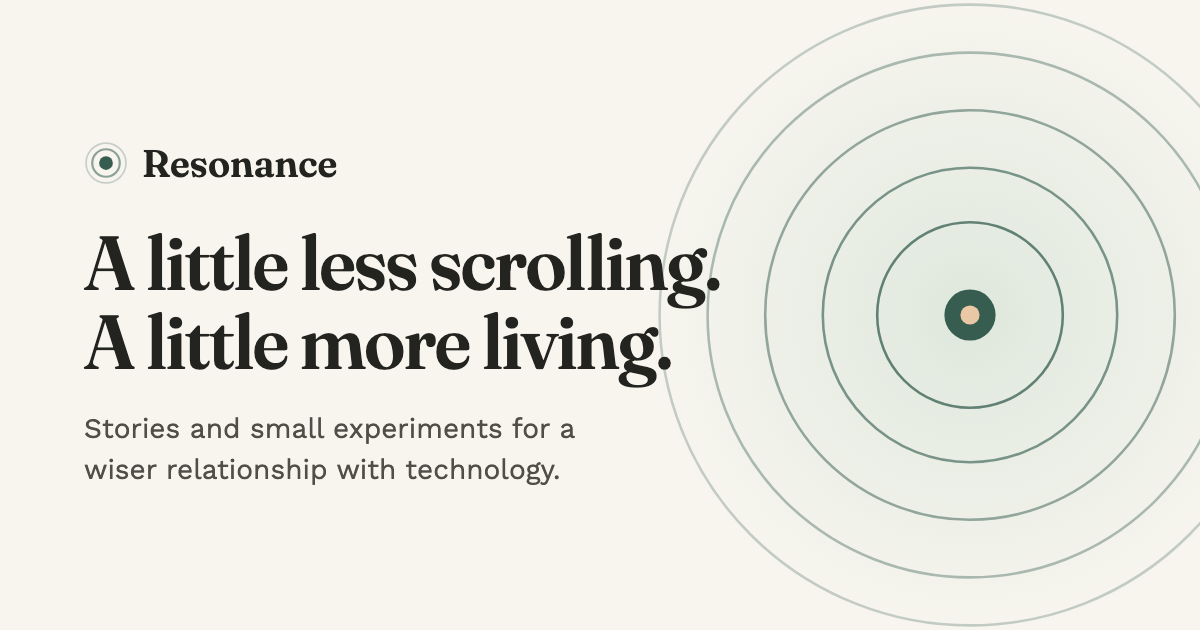
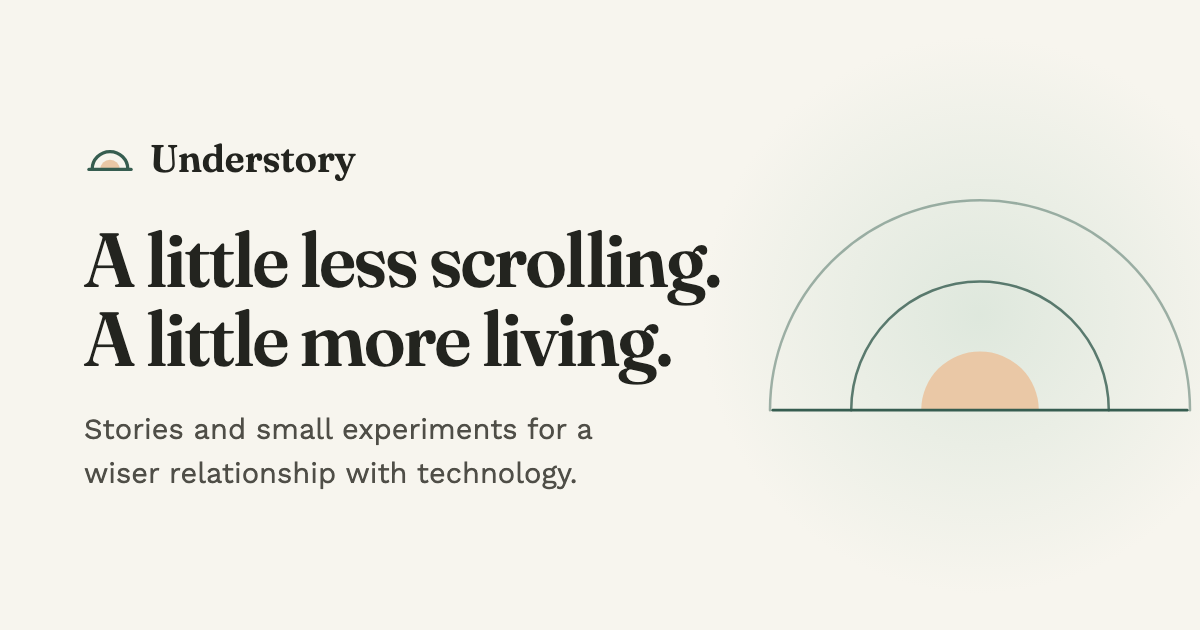
feat: rebrand from Resonance to Understory
Replace the ripples mark with rings over a horizon (hero, header, favicon,
social image) and rewrite the copy that leaned on the tuning-fork metaphor.
Rename the site name and browser storage keys. Repo name and Pages base
path are unchanged until the repo is renamed.

diff --git a/src/styles/global.css b/src/styles/global.css
@@ -168,8 +168,8 @@ img { max-width: 100%; display: block; }
   min-height: 44px;
 }
 .brand svg { width: 28px; height: 28px; flex-shrink: 0; }
-.brand .brand-ring { stroke: var(--forest); fill: none; }
-.brand .brand-core { fill: var(--forest); }
+.brand .brand-ring, .brand .brand-horizon { stroke: var(--forest); fill: none; stroke-linecap: round; }
+.brand .brand-sun { fill: var(--dawn); }
 
 .nav-desktop { display: none; align-items: center; gap: 4px; }
 .nav a, .menu-panel a {

diff --git a/src/lib/checkin/store.ts b/src/lib/checkin/store.ts
@@ -6,7 +6,7 @@ import type { Answers, DimensionId } from './types';
  * this browser tab, disappears when the tab closes, and never reaches the
  * server except through the forms the person chooses to submit.
  */
-export const STORAGE_KEY = 'resonance-checkin';
+export const STORAGE_KEY = 'understory-checkin';
 const RECORD_VERSION = 1;
 const MAX_TEXT_LENGTH = 2000;
 

diff --git a/src/lib/config.ts b/src/lib/config.ts
@@ -1,4 +1,4 @@
-export const SITE_NAME = 'Resonance';
+export const SITE_NAME = 'Understory';
 export const FOUNDER_NAME = 'Chernyang Lee';
 export const CONTACT_EMAIL = 'chernyang.lee@gmail.com';
 export const LINKEDIN_URL = 'https://www.linkedin.com/in/chernyang-lee-8924a75b/';

diff --git a/CLAUDE.md b/CLAUDE.md
@@ -1,4 +1,4 @@
-# Resonance website
+# Understory website
 
 Astro 7 static site for the founder's intentional-technology venture. Live at https://mornsolar.github.io/resonance/ (repo `mornsolar/resonance`). Every push to `main` builds and deploys through `.github/workflows/deploy.yml`.
 
@@ -34,5 +34,7 @@ A lead-generation assessment built on the Priestley 10+5 structure: landing page
 - Colours come from the tokens at the top of `src/styles/global.css`, with a dark-mode override under `prefers-color-scheme: dark`. Use tokens (`var(--forest)`, `var(--paper-deep)`), never raw hex, so both themes stay in step.
 - Fonts are self-hosted through `@fontsource-variable` (no Google Fonts requests). Motion is optional and must respect `prefers-reduced-motion`.
 - `public/og.png` is the social preview image. If the tagline or brand colours change, regenerate it rather than leaving it stale.
-- Brand rules come from `Mission & Vision/Brand Identity - Resonance.md` in the vault: calm, trusted-friend voice; no pop-ups, streaks, countdowns or urgency tricks.
+- The brand was renamed from Resonance to Understory. The Understory design system (palette, type, mark) is the reference for look and voice. The mark is rings over a horizon with a half-disc sun: `src/components/Canopy.astro` (hero), the header mark in `Base.astro`, and `public/favicon.svg`. Metaphor for copy: the understory is the calm layer beneath the canopy where what matters gets enough light to grow. Do not reuse the old tuning-fork or "respond when struck" language.
+- Brand rules come from the brand identity note in the vault's `Mission & Vision` folder (still filed as `Brand Identity - Resonance.md` until renamed): calm, trusted-friend voice; no pop-ups, streaks, countdowns or urgency tricks.
+- The repo, GitHub Pages path (`/resonance` in `astro.config.mjs`) and live URL above still carry the old name until the repo is renamed; change them together.
 - Commits use conventional format (`feat:`, `fix:`, `docs:` and so on).
